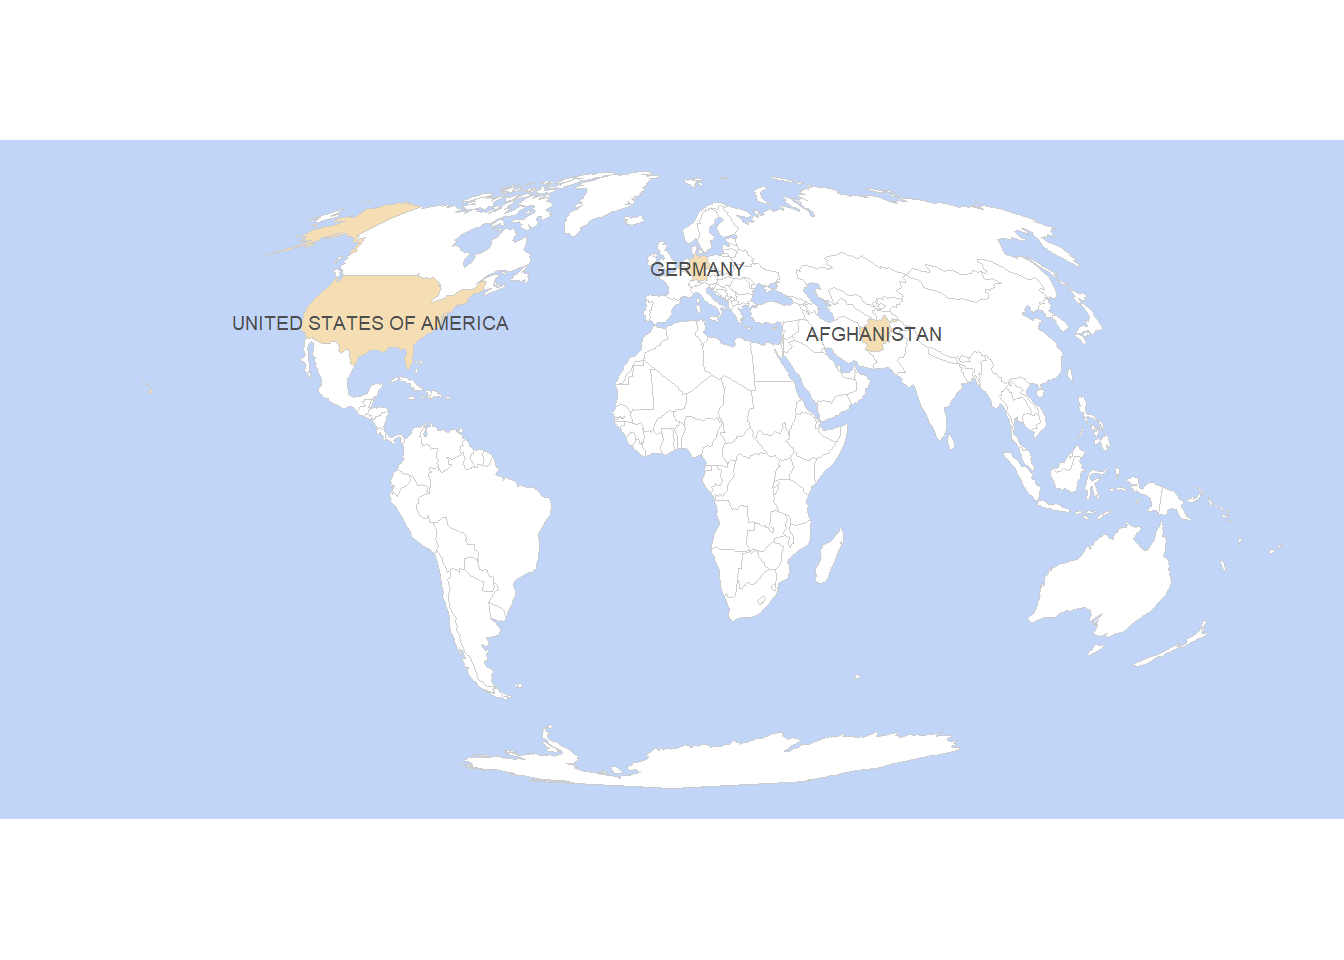
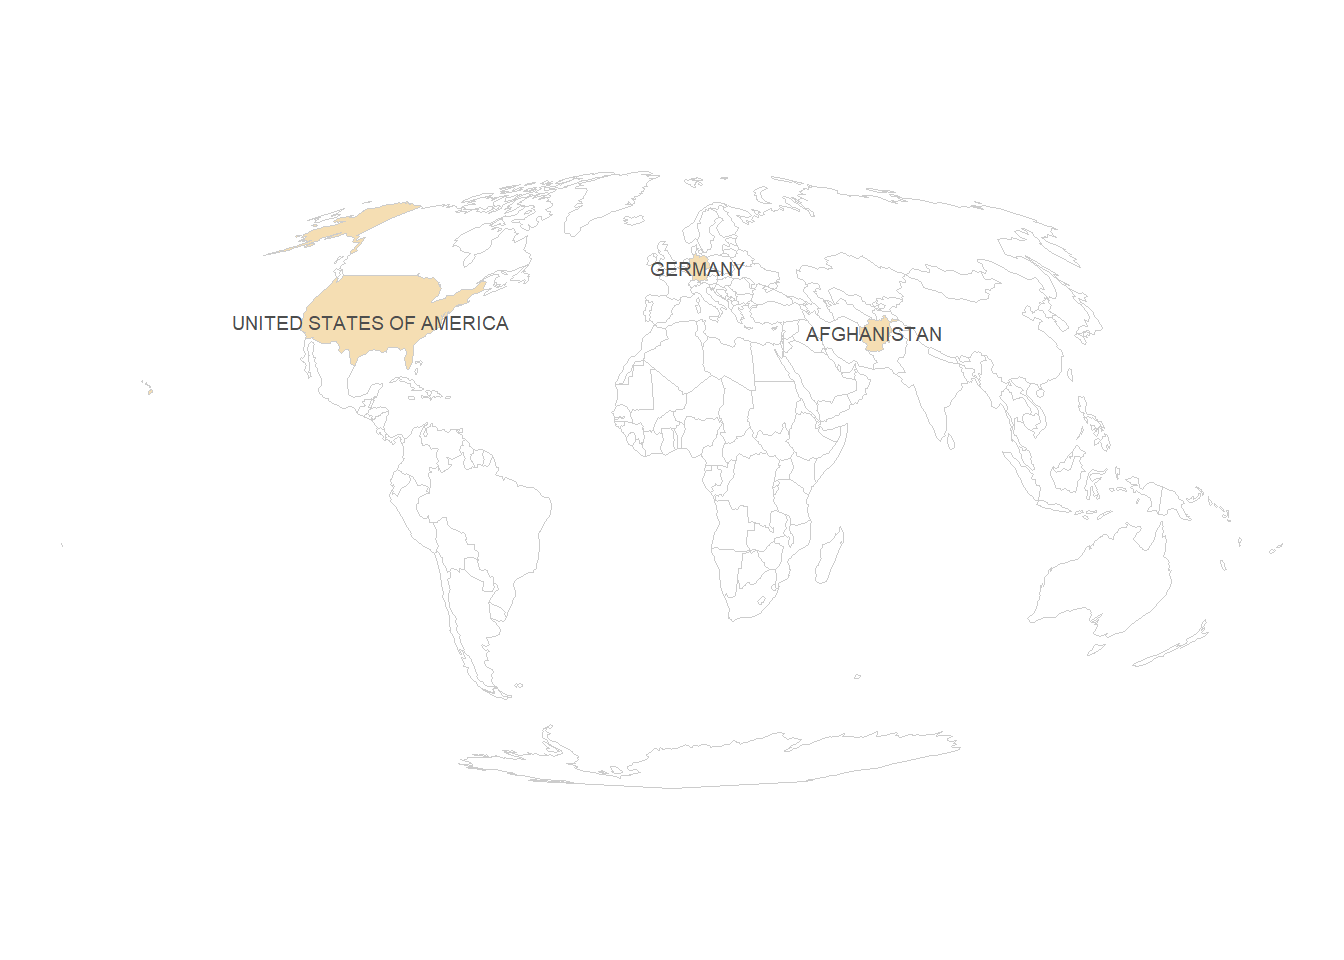
Built site for gh-pages

diff --git a/blog/posts/creating-a-basic-map/index.html b/blog/posts/creating-a-basic-map/index.html
@@ -7,7 +7,7 @@
 <meta name="viewport" content="width=device-width, initial-scale=1.0, user-scalable=yes">
 
 <meta name="author" content="Sarah Zeller">
-<meta name="dcterms.date" content="2023-11-28">
+<meta name="dcterms.date" content="2024-01-04">
 
 <title>Sarah Zeller - Creating a map with ggplot2</title>
 <style>
@@ -165,7 +165,7 @@ pre > code.sourceCode > span > a:first-child::before { text-decoration: underlin
       <div>
       <div class="quarto-title-meta-heading">Published</div>
       <div class="quarto-title-meta-contents">
-        <p class="date">November 28, 2023</p>
+        <p class="date">January 4, 2024</p>
       </div>
     </div>
     
@@ -187,6 +187,7 @@ pre > code.sourceCode > span > a:first-child::before { text-decoration: underlin
   <li><a href="#basic-map" id="toc-basic-map" class="nav-link" data-scroll-target="#basic-map">Basic map</a></li>
   <li><a href="#intermediate-map" id="toc-intermediate-map" class="nav-link" data-scroll-target="#intermediate-map">Intermediate map</a></li>
   <li><a href="#prettier-map" id="toc-prettier-map" class="nav-link" data-scroll-target="#prettier-map">Prettier map</a></li>
+  <li><a href="#prettier-map-with-ocean" id="toc-prettier-map-with-ocean" class="nav-link" data-scroll-target="#prettier-map-with-ocean">Prettier map with ocean</a></li>
   <li><a href="#advanced-stuff" id="toc-advanced-stuff" class="nav-link" data-scroll-target="#advanced-stuff">Advanced stuff</a></li>
   </ul></li>
   </ul>
@@ -319,15 +320,51 @@ Tip
 <span id="cb6-25"><a href="#cb6-25" aria-hidden="true" tabindex="-1"></a>  <span class="co"># change to a nicer projection: equal area (more accurate)</span></span>
 <span id="cb6-26"><a href="#cb6-26" aria-hidden="true" tabindex="-1"></a>  <span class="fu">coord_sf</span>(<span class="at">crs =</span> <span class="st">"ESRI:54009"</span>) <span class="sc">+</span></span>
 <span id="cb6-27"><a href="#cb6-27" aria-hidden="true" tabindex="-1"></a>  <span class="co"># remove clutter</span></span>
-<span id="cb6-28"><a href="#cb6-28" aria-hidden="true" tabindex="-1"></a>  <span class="fu">theme_void</span>() <span class="sc">+</span></span>
-<span id="cb6-29"><a href="#cb6-29" aria-hidden="true" tabindex="-1"></a>  <span class="co"># add blue background for water</span></span>
-<span id="cb6-30"><a href="#cb6-30" aria-hidden="true" tabindex="-1"></a>  <span class="fu">theme</span>(<span class="at">panel.background =</span> <span class="fu">element_rect</span>(<span class="at">fill =</span> <span class="fu">alpha</span>(<span class="st">"cornflowerblue"</span>, .<span class="dv">4</span>),</span>
-<span id="cb6-31"><a href="#cb6-31" aria-hidden="true" tabindex="-1"></a>                                        <span class="at">colour =</span> <span class="cn">NA</span>)) </span></code><button title="Copy to Clipboard" class="code-copy-button"><i class="bi"></i></button></pre></div>
+<span id="cb6-28"><a href="#cb6-28" aria-hidden="true" tabindex="-1"></a>  <span class="fu">theme_void</span>()</span></code><button title="Copy to Clipboard" class="code-copy-button"><i class="bi"></i></button></pre></div>
 <div class="cell-output-display">
 <div id="fig-map-advanced" class="quarto-figure quarto-figure-center anchored">
 <figure class="figure">
 <p><img src="index_files/figure-html/fig-map-advanced-1.png" class="img-fluid figure-img" width="672"></p>
 <figcaption class="figure-caption">Figure&nbsp;3: Choropleth map of my countries – prettier version</figcaption>
+</figure>
+</div>
+</div>
+</div>
+</section>
+<section id="prettier-map-with-ocean" class="level2">
+<h2 class="anchored" data-anchor-id="prettier-map-with-ocean">Prettier map with ocean</h2>
+<p>There’s just some lines of code you need to add to have a round earth/rounded sea. We need to create a polygon that has just the shape of the earth. We can do this with <code>st_graticule</code>, and then <code>st_cast</code> it to a polygon. Then, we can simply plot this polygon at the beginning of our <code>ggplot</code>.</p>
+<div class="cell">
+<div class="sourceCode cell-code" id="cb7"><pre class="sourceCode r code-with-copy"><code class="sourceCode r"><span id="cb7-1"><a href="#cb7-1" aria-hidden="true" tabindex="-1"></a>grat <span class="ot">&lt;-</span> <span class="fu">st_graticule</span>() <span class="sc">|&gt;</span> <span class="fu">st_cast</span>(<span class="st">'POLYGON'</span>)</span>
+<span id="cb7-2"><a href="#cb7-2" aria-hidden="true" tabindex="-1"></a></span>
+<span id="cb7-3"><a href="#cb7-3" aria-hidden="true" tabindex="-1"></a><span class="fu">ggplot</span>() <span class="sc">+</span></span>
+<span id="cb7-4"><a href="#cb7-4" aria-hidden="true" tabindex="-1"></a>  <span class="co"># this is the new line</span></span>
+<span id="cb7-5"><a href="#cb7-5" aria-hidden="true" tabindex="-1"></a>  <span class="fu">geom_sf</span>(<span class="at">data =</span> grat, <span class="at">fill =</span> <span class="st">"#d7ecfa"</span>, <span class="at">col =</span> <span class="st">"#d7ecfa"</span>) <span class="sc">+</span></span>
+<span id="cb7-6"><a href="#cb7-6" aria-hidden="true" tabindex="-1"></a>  <span class="co"># now everything is the same as before</span></span>
+<span id="cb7-7"><a href="#cb7-7" aria-hidden="true" tabindex="-1"></a>  <span class="fu">geom_sf</span>(</span>
+<span id="cb7-8"><a href="#cb7-8" aria-hidden="true" tabindex="-1"></a>    <span class="at">data =</span> world,</span>
+<span id="cb7-9"><a href="#cb7-9" aria-hidden="true" tabindex="-1"></a>    <span class="fu">aes</span>(<span class="at">fill =</span> is_my_country),</span>
+<span id="cb7-10"><a href="#cb7-10" aria-hidden="true" tabindex="-1"></a>    <span class="at">col =</span> <span class="st">"grey80"</span>,</span>
+<span id="cb7-11"><a href="#cb7-11" aria-hidden="true" tabindex="-1"></a>    <span class="at">show.legend =</span> <span class="cn">FALSE</span></span>
+<span id="cb7-12"><a href="#cb7-12" aria-hidden="true" tabindex="-1"></a>  ) <span class="sc">+</span></span>
+<span id="cb7-13"><a href="#cb7-13" aria-hidden="true" tabindex="-1"></a>  <span class="co"># add country labels</span></span>
+<span id="cb7-14"><a href="#cb7-14" aria-hidden="true" tabindex="-1"></a>  <span class="fu">geom_sf_text</span>(</span>
+<span id="cb7-15"><a href="#cb7-15" aria-hidden="true" tabindex="-1"></a>    <span class="at">data =</span> world <span class="sc">|&gt;</span> <span class="fu">filter</span>(is_my_country <span class="sc">==</span> <span class="cn">TRUE</span>),</span>
+<span id="cb7-16"><a href="#cb7-16" aria-hidden="true" tabindex="-1"></a>    <span class="fu">aes</span>(<span class="at">label =</span> admin <span class="sc">|&gt;</span> <span class="fu">toupper</span>()),</span>
+<span id="cb7-17"><a href="#cb7-17" aria-hidden="true" tabindex="-1"></a>    <span class="at">col =</span> <span class="st">"grey30"</span>,</span>
+<span id="cb7-18"><a href="#cb7-18" aria-hidden="true" tabindex="-1"></a>    <span class="at">size =</span> <span class="fl">2.5</span></span>
+<span id="cb7-19"><a href="#cb7-19" aria-hidden="true" tabindex="-1"></a>  ) <span class="sc">+</span></span>
+<span id="cb7-20"><a href="#cb7-20" aria-hidden="true" tabindex="-1"></a>  <span class="co"># make colours prettier</span></span>
+<span id="cb7-21"><a href="#cb7-21" aria-hidden="true" tabindex="-1"></a>  <span class="fu">scale_fill_manual</span>(<span class="at">values =</span> <span class="fu">c</span>(<span class="st">"white"</span>, <span class="st">"wheat"</span>)) <span class="sc">+</span></span>
+<span id="cb7-22"><a href="#cb7-22" aria-hidden="true" tabindex="-1"></a>  <span class="co"># change to a nicer projection: equal area (more accurate)</span></span>
+<span id="cb7-23"><a href="#cb7-23" aria-hidden="true" tabindex="-1"></a>  <span class="fu">coord_sf</span>(<span class="at">crs =</span> <span class="st">"ESRI:54009"</span>) <span class="sc">+</span></span>
+<span id="cb7-24"><a href="#cb7-24" aria-hidden="true" tabindex="-1"></a>  <span class="co"># remove clutter</span></span>
+<span id="cb7-25"><a href="#cb7-25" aria-hidden="true" tabindex="-1"></a>  <span class="fu">theme_void</span>()</span></code><button title="Copy to Clipboard" class="code-copy-button"><i class="bi"></i></button></pre></div>
+<div class="cell-output-display">
+<div id="fig-earth-round" class="quarto-figure quarto-figure-center anchored">
+<figure class="figure">
+<p><img src="index_files/figure-html/fig-earth-round-1.png" class="img-fluid figure-img" width="672"></p>
+<figcaption class="figure-caption">Figure&nbsp;4: Choropleth map of my countries – round earth</figcaption>
 </figure>
 </div>
 </div>
@@ -346,16 +383,16 @@ Tip
 </section>
 </section>
 
-<div id="quarto-appendix" class="default"><section class="quarto-appendix-contents"><h2 class="anchored quarto-appendix-heading">Citation</h2><div><div class="quarto-appendix-secondary-label">BibTeX citation:</div><pre class="sourceCode code-with-copy quarto-appendix-bibtex"><code class="sourceCode bibtex">@online{zeller2023,
+<div id="quarto-appendix" class="default"><section class="quarto-appendix-contents"><h2 class="anchored quarto-appendix-heading">Citation</h2><div><div class="quarto-appendix-secondary-label">BibTeX citation:</div><pre class="sourceCode code-with-copy quarto-appendix-bibtex"><code class="sourceCode bibtex">@online{zeller2024,
   author = {Zeller, Sarah},
   title = {Creating a Map with `Ggplot2`},
-  date = {2023-11-28},
+  date = {2024-01-04},
   url = {https://sarahzeller.github.io/blog/posts/creating-a-basic-map/},
   langid = {en}
 }
-</code><button title="Copy to Clipboard" class="code-copy-button"><i class="bi"></i></button></pre><div class="quarto-appendix-secondary-label">For attribution, please cite this work as:</div><div id="ref-zeller2023" class="csl-entry quarto-appendix-citeas" role="listitem">
-Zeller, Sarah. 2023. <span>“Creating a Map with `Ggplot2`.”</span>
-November 28, 2023. <a href="https://sarahzeller.github.io/blog/posts/creating-a-basic-map/">https://sarahzeller.github.io/blog/posts/creating-a-basic-map/</a>.
+</code><button title="Copy to Clipboard" class="code-copy-button"><i class="bi"></i></button></pre><div class="quarto-appendix-secondary-label">For attribution, please cite this work as:</div><div id="ref-zeller2024" class="csl-entry quarto-appendix-citeas" role="listitem">
+Zeller, Sarah. 2024. <span>“Creating a Map with `Ggplot2`.”</span>
+January 4, 2024. <a href="https://sarahzeller.github.io/blog/posts/creating-a-basic-map/">https://sarahzeller.github.io/blog/posts/creating-a-basic-map/</a>.
 </div></div></section></div></main> <!-- /main -->
 <script id="quarto-html-after-body" type="application/javascript">
 window.document.addEventListener("DOMContentLoaded", function (event) {

diff --git a/blog/index.html b/blog/index.html
@@ -175,9 +175,9 @@ ul.task-list li input[type="checkbox"] {
 
 <div class="quarto-listing quarto-listing-container-default" id="listing-posts">
 <div class="list quarto-listing-default">
-<div class="quarto-post image-right" data-index="0" data-categories="code,visualization" data-listing-date-sort="1701129600000" data-listing-file-modified-sort="1702371499931" data-listing-date-modified-sort="NaN" data-listing-reading-time-sort="5">
+<div class="quarto-post image-right" data-index="0" data-categories="code,visualization" data-listing-date-sort="1704326400000" data-listing-file-modified-sort="1704371738214" data-listing-date-modified-sort="NaN" data-listing-reading-time-sort="6">
 <div class="thumbnail">
-<p><a href="../blog/posts/creating-a-basic-map/index.html"> <img src="../blog/posts/creating-a-basic-map/map.jpg" class="thumbnail-image"> </a></p>
+<p><a href="../blog/posts/creating-a-basic-map/index.html"> <img src="../blog/posts/creating-a-basic-map/map.png" class="thumbnail-image"> </a></p>
 </div>
 <div class="body">
 <a href="../blog/posts/creating-a-basic-map/index.html">
@@ -205,7 +205,7 @@ In this post, I create a basic world map – specifically, a Choropleth map. Tha
 <div class="metadata">
 <a href="../blog/posts/creating-a-basic-map/index.html">
 <div class="listing-date">
-Nov 28, 2023
+Jan 4, 2024
 </div>
 <div class="listing-author">
 Sarah Zeller
@@ -213,7 +213,7 @@ Sarah Zeller
 </a>
 </div>
 </div>
-<div class="quarto-post image-right" data-index="1" data-categories="code,summary" data-listing-date-sort="1701129600000" data-listing-file-modified-sort="1702371499931" data-listing-date-modified-sort="NaN" data-listing-reading-time-sort="5">
+<div class="quarto-post image-right" data-index="1" data-categories="code,summary" data-listing-date-sort="1701129600000" data-listing-file-modified-sort="1704371738214" data-listing-date-modified-sort="NaN" data-listing-reading-time-sort="5">
 <div class="thumbnail">
 <p><a href="../blog/posts/showing-regression-results/index.html"> <img src="../blog/posts/showing-regression-results/table.png" class="thumbnail-image"> </a></p>
 </div>
